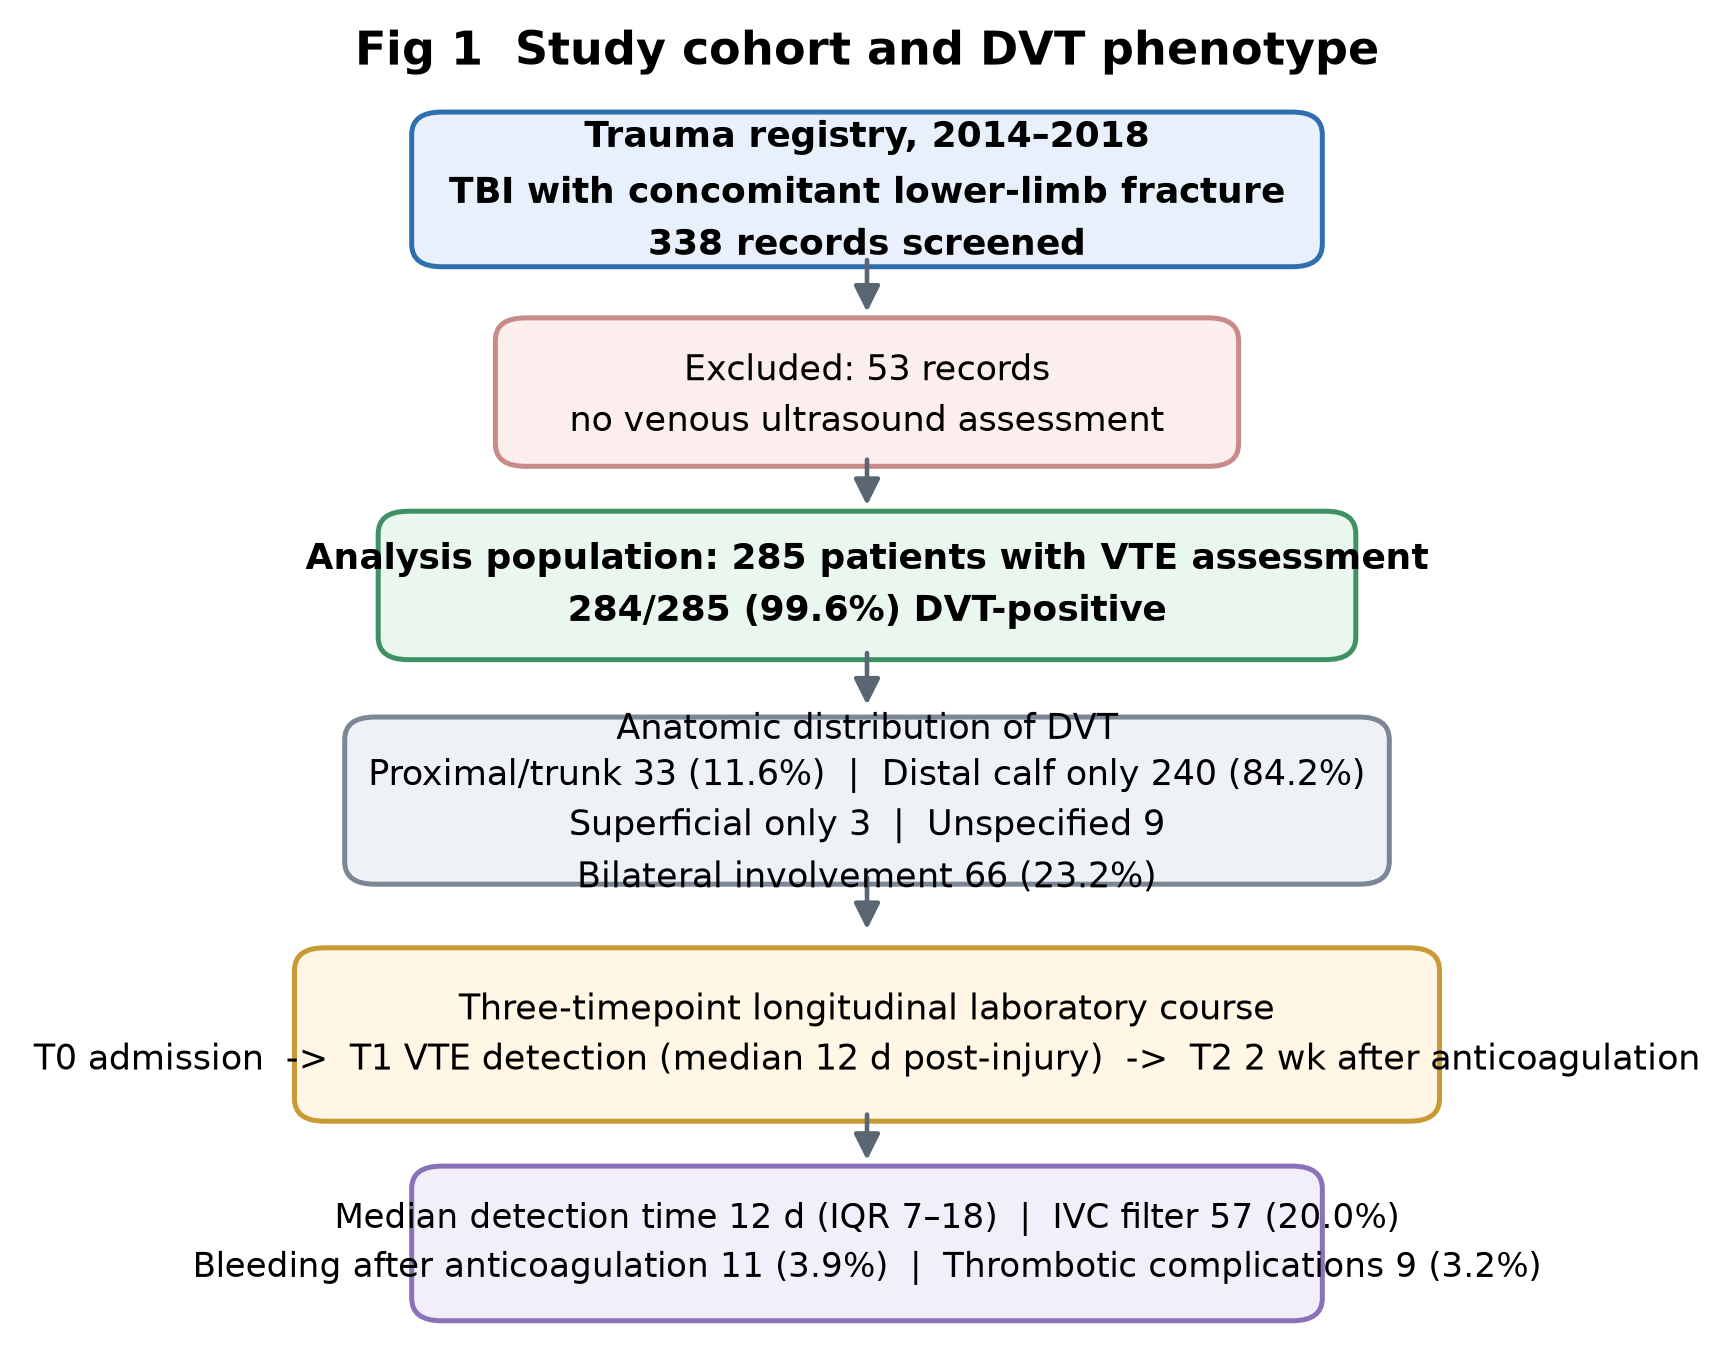
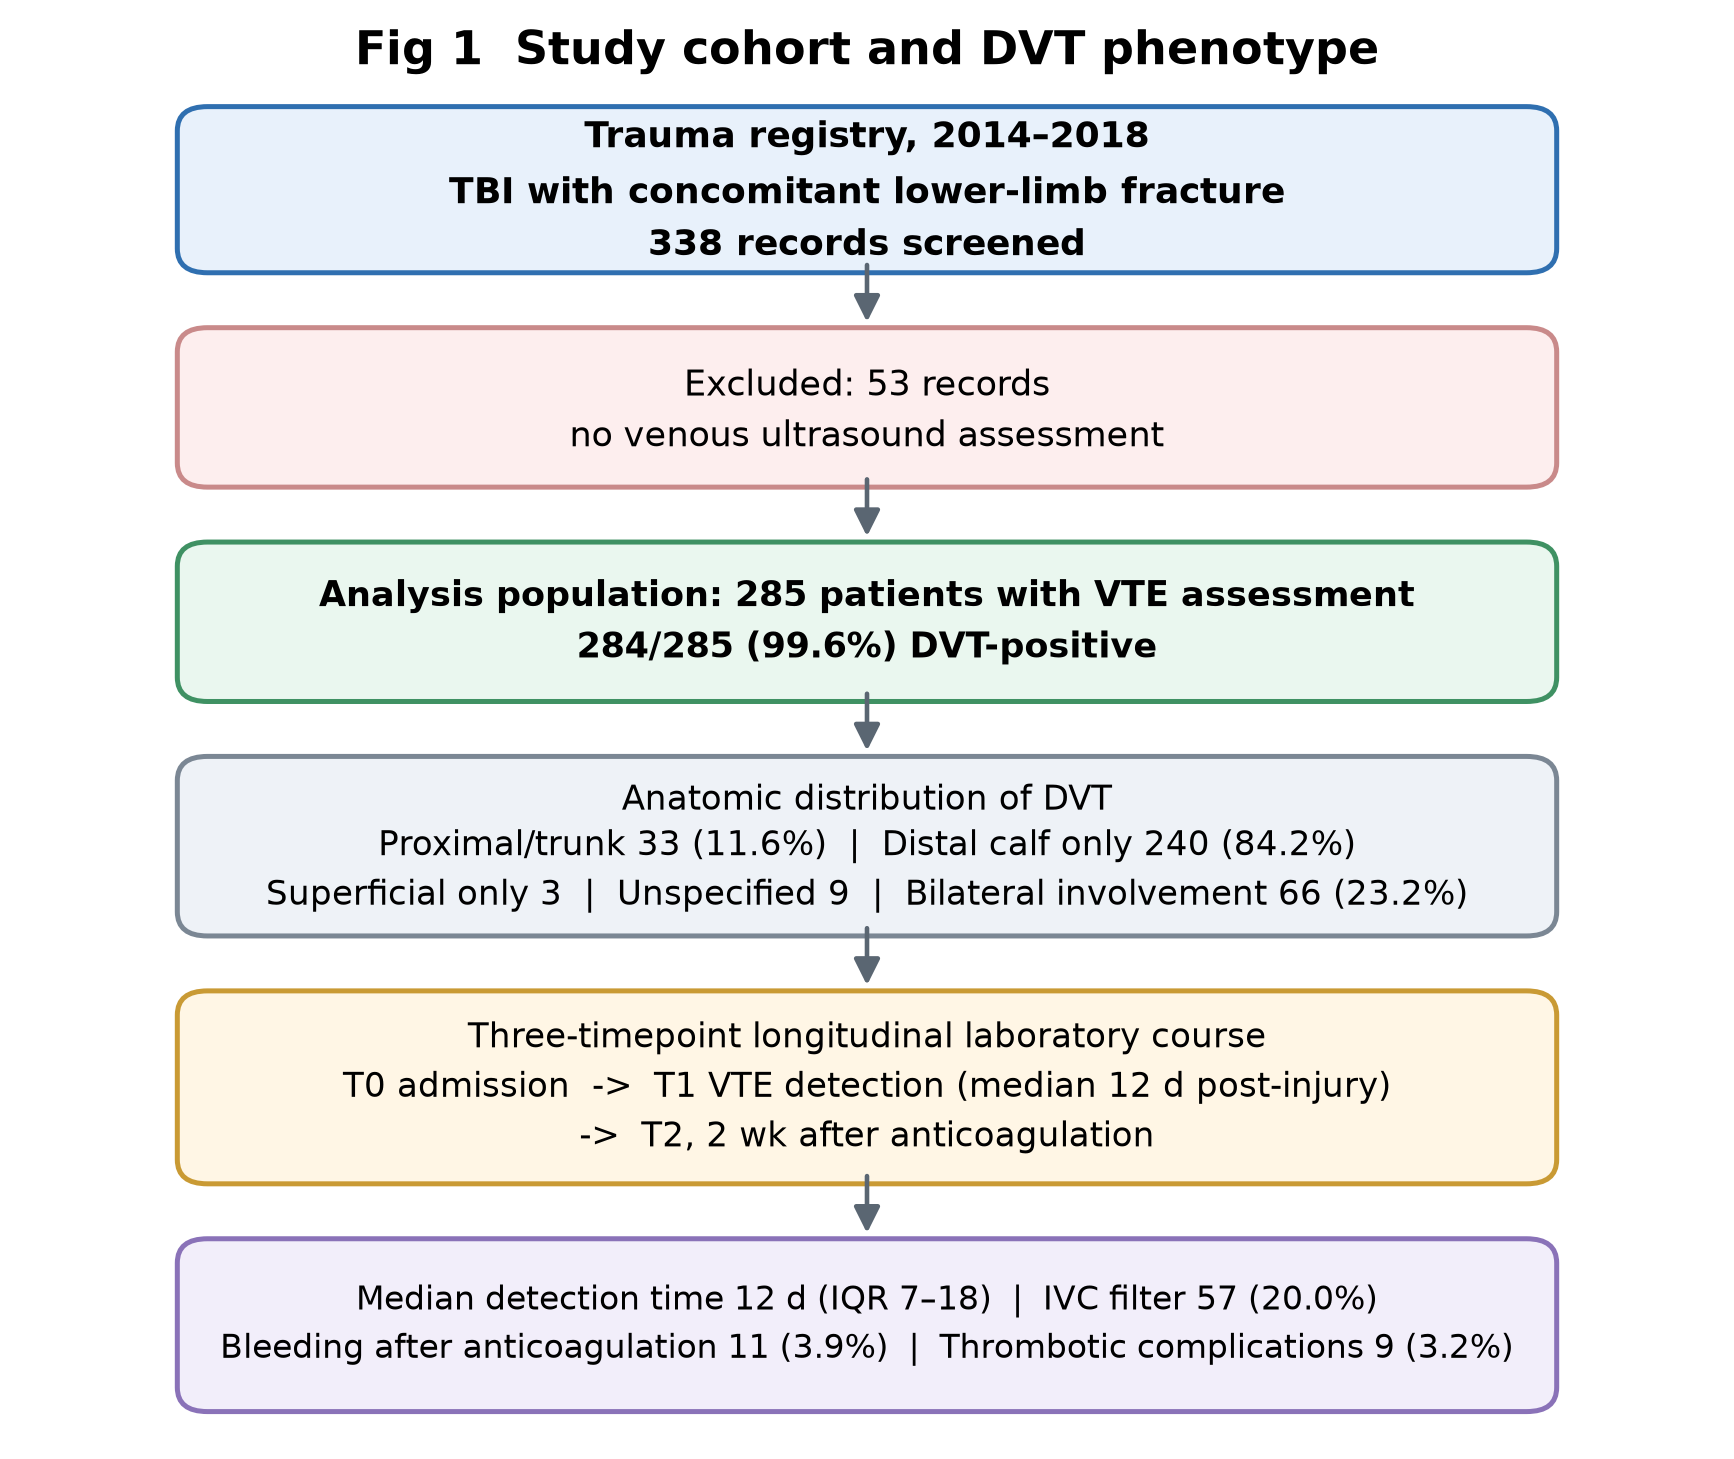
Fix Fig 1 text overflow: widen boxes, split long lines

Changed region(s): [[0.0311, 0.0, 0.9654, 0.9832], [0.5917, 0.0, 0.6228, 0.0307]]

diff --git a/analysis/make_figs.py b/analysis/make_figs.py
@@ -21,7 +21,8 @@ for t in ['T0','T1','T2']:
         c=f'{t}_{k}'; E['v_'+c]=num(E[c]) if c in E.columns else np.nan
 
 # ================= FIG 1 =================
-fig,ax=plt.subplots(figsize=(7.2,5.4)); ax.set_xlim(0,10); ax.set_ylim(0,10); ax.axis('off')
+fig,ax=plt.subplots(figsize=(7.2,5.8)); ax.set_xlim(0,10); ax.set_ylim(0,10); ax.axis('off')
+BX,LW=1.0,8.0   # 统一框左缘与宽度，保证长行不溢出
 def box(x,y,w,h,txt,fc,ec,fs=9,bold=False):
     ax.add_patch(FancyBboxPatch((x,y),w,h,boxstyle="round,pad=0.12,rounding_size=0.18",
                  fc=fc,ec=ec,lw=1.2))
@@ -29,22 +30,22 @@ def box(x,y,w,h,txt,fc,ec,fs=9,bold=False):
             fontweight='bold' if bold else 'normal',linespacing=1.45)
 def arrow(x1,y1,x2,y2):
     ax.add_patch(FancyArrowPatch((x1,y1),(x2,y2),arrowstyle='-|>',mutation_scale=13,lw=1.1,color='#5a6672'))
-box(2.4,8.7,5.2,1.0,'Trauma registry, 2014–2018\nTBI with concomitant lower-limb fracture\n338 records screened',
+box(BX,8.75,LW,1.0,'Trauma registry, 2014–2018\nTBI with concomitant lower-limb fracture\n338 records screened',
     '#e8f1fb','#2f6fb0',8.6,True)
-arrow(5.0,8.7,5.0,8.15)
-box(2.9,7.1,4.2,0.95,'Excluded: 53 records\nno venous ultrasound assessment',"#fdeeee",'#c98a8a',8.4)
-arrow(5.0,7.1,5.0,6.6)
-box(2.2,5.55,5.6,0.95,'Analysis population: 285 patients with VTE assessment\n284/285 (99.6%) DVT-positive',
-    '#eaf7ef','#3f9163',8.6,True)
+arrow(5.0,8.75,5.0,8.2)
+box(BX,7.15,LW,0.95,'Excluded: 53 records\nno venous ultrasound assessment',"#fdeeee",'#c98a8a',8.4)
+arrow(5.0,7.15,5.0,6.6)
+box(BX,5.55,LW,0.95,'Analysis population: 285 patients with VTE assessment\n284/285 (99.6%) DVT-positive',
+    '#eaf7ef','#3f9163',8.5,True)
 arrow(5.0,5.55,5.0,5.0)
-box(2.0,3.75,6.0,1.1,'Anatomic distribution of DVT\nProximal/trunk 33 (11.6%)  |  Distal calf only 240 (84.2%)\n'
-    'Superficial only 3  |  Unspecified 9\nBilateral involvement 66 (23.2%)',"#eef2f7",'#7b8794',8.3)
-arrow(5.0,3.75,5.0,3.2)
-box(1.7,1.85,6.6,1.15,'Three-timepoint longitudinal laboratory course\nT0 admission  ->  T1 VTE detection (median 12 d post-injury)  ->  T2 2 wk after anticoagulation',
-    '#fff6e5','#c99a34',8.3)
-arrow(5.0,1.85,5.0,1.35)
-box(2.4,0.25,5.2,1.0,'Median detection time 12 d (IQR 7–18)  |  IVC filter 57 (20.0%)\nBleeding after anticoagulation 11 (3.9%)  |  Thrombotic complications 9 (3.2%)',
-    '#f2eefa','#8a72b8',8.1)
+box(BX,3.8,LW,1.1,'Anatomic distribution of DVT\nProximal/trunk 33 (11.6%)  |  Distal calf only 240 (84.2%)\n'
+    'Superficial only 3  |  Unspecified 9  |  Bilateral involvement 66 (23.2%)',"#eef2f7",'#7b8794',8.2)
+arrow(5.0,3.8,5.0,3.25)
+box(BX,1.95,LW,1.2,'Three-timepoint longitudinal laboratory course\nT0 admission  ->  T1 VTE detection (median 12 d post-injury)\n->  T2, 2 wk after anticoagulation',
+    '#fff6e5','#c99a34',8.2)
+arrow(5.0,1.95,5.0,1.4)
+box(BX,0.25,LW,1.05,'Median detection time 12 d (IQR 7–18)  |  IVC filter 57 (20.0%)\nBleeding after anticoagulation 11 (3.9%)  |  Thrombotic complications 9 (3.2%)',
+    '#f2eefa','#8a72b8',8.0)
 ax.set_title('Fig 1  Study cohort and DVT phenotype',fontsize=11,fontweight='bold',pad=6)
 plt.savefig('../figures/Fig1_cohort_flow.png'); plt.close()
 

diff --git a/analysis/redraw_fig1.py b/analysis/redraw_fig1.py
@@ -1,0 +1,39 @@
+# -*- coding: utf-8 -*-
+"""仅重绘 Fig 1（纯文本流程图，不依赖 merged.pkl），修复文字超框问题"""
+import warnings
+import matplotlib
+matplotlib.use('Agg')
+import matplotlib.pyplot as plt
+from matplotlib.patches import FancyBboxPatch, FancyArrowPatch
+warnings.filterwarnings('ignore')
+plt.rcParams.update({'font.family':'DejaVu Sans','font.size':9,'axes.linewidth':0.8,
+                     'savefig.dpi':300,'savefig.bbox':'tight','figure.facecolor':'white'})
+
+fig,ax=plt.subplots(figsize=(7.2,5.8)); ax.set_xlim(0,10); ax.set_ylim(0,10); ax.axis('off')
+BX,LW=1.0,8.0   # 统一框左缘与宽度，保证长行不溢出
+def box(x,y,w,h,txt,fc,ec,fs=9,bold=False):
+    ax.add_patch(FancyBboxPatch((x,y),w,h,boxstyle="round,pad=0.12,rounding_size=0.18",
+                 fc=fc,ec=ec,lw=1.2))
+    ax.text(x+w/2,y+h/2,txt,ha='center',va='center',fontsize=fs,
+            fontweight='bold' if bold else 'normal',linespacing=1.45)
+def arrow(x1,y1,x2,y2):
+    ax.add_patch(FancyArrowPatch((x1,y1),(x2,y2),arrowstyle='-|>',mutation_scale=13,lw=1.1,color='#5a6672'))
+box(BX,8.75,LW,1.0,'Trauma registry, 2014–2018\nTBI with concomitant lower-limb fracture\n338 records screened',
+    '#e8f1fb','#2f6fb0',8.6,True)
+arrow(5.0,8.75,5.0,8.2)
+box(BX,7.15,LW,0.95,'Excluded: 53 records\nno venous ultrasound assessment',"#fdeeee",'#c98a8a',8.4)
+arrow(5.0,7.15,5.0,6.6)
+box(BX,5.55,LW,0.95,'Analysis population: 285 patients with VTE assessment\n284/285 (99.6%) DVT-positive',
+    '#eaf7ef','#3f9163',8.5,True)
+arrow(5.0,5.55,5.0,5.0)
+box(BX,3.8,LW,1.1,'Anatomic distribution of DVT\nProximal/trunk 33 (11.6%)  |  Distal calf only 240 (84.2%)\n'
+    'Superficial only 3  |  Unspecified 9  |  Bilateral involvement 66 (23.2%)',"#eef2f7",'#7b8794',8.2)
+arrow(5.0,3.8,5.0,3.25)
+box(BX,1.95,LW,1.2,'Three-timepoint longitudinal laboratory course\nT0 admission  ->  T1 VTE detection (median 12 d post-injury)\n->  T2, 2 wk after anticoagulation',
+    '#fff6e5','#c99a34',8.2)
+arrow(5.0,1.95,5.0,1.4)
+box(BX,0.25,LW,1.05,'Median detection time 12 d (IQR 7–18)  |  IVC filter 57 (20.0%)\nBleeding after anticoagulation 11 (3.9%)  |  Thrombotic complications 9 (3.2%)',
+    '#f2eefa','#8a72b8',8.0)
+ax.set_title('Fig 1  Study cohort and DVT phenotype',fontsize=11,fontweight='bold',pad=6)
+plt.savefig('../figures/Fig1_cohort_flow.png'); plt.close()
+print('[saved] figures/Fig1_cohort_flow.png')
